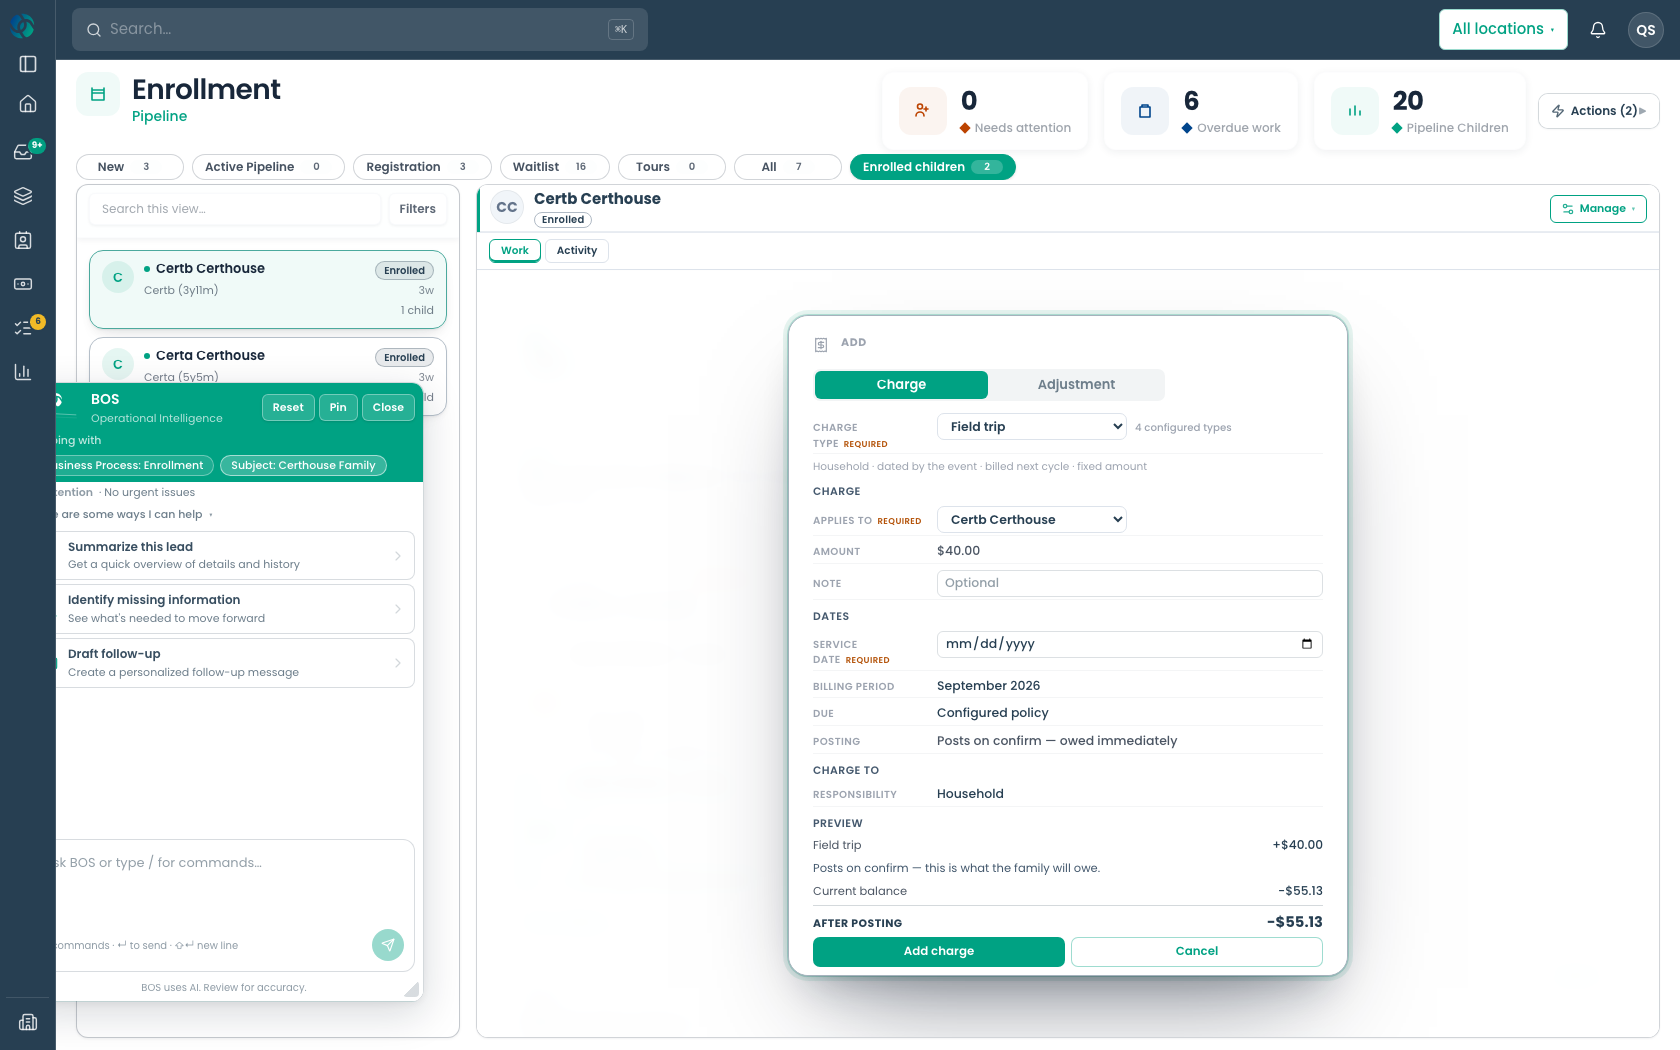
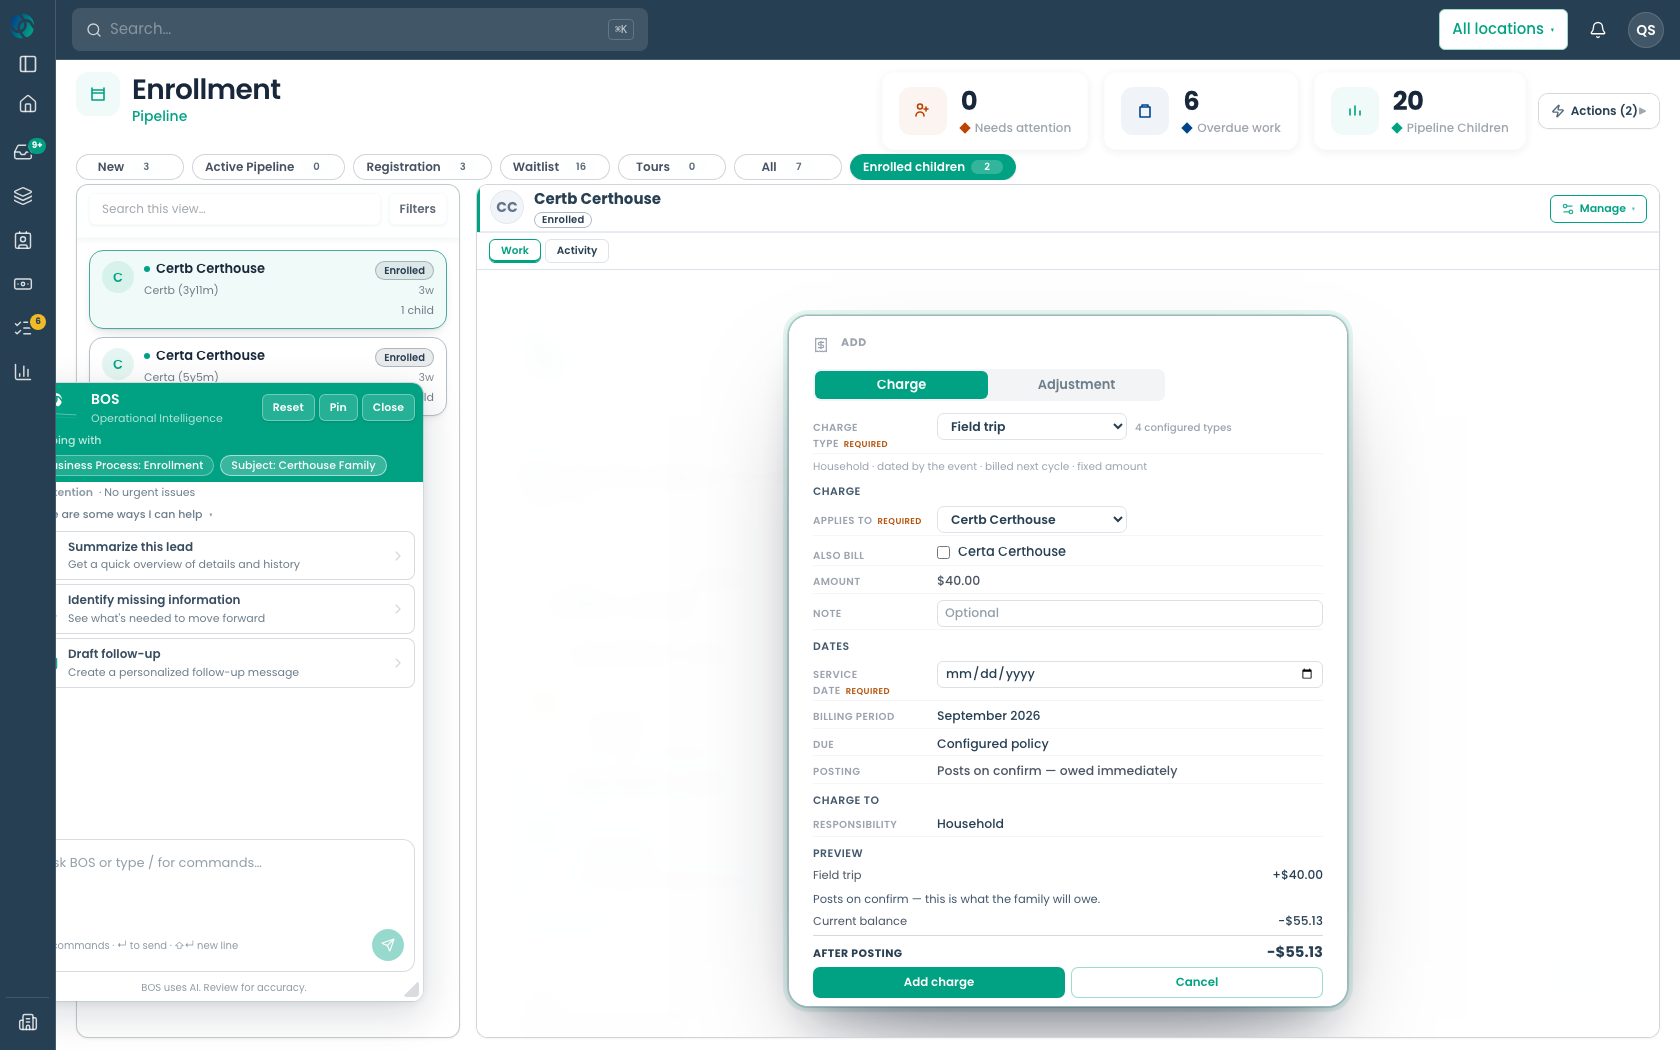
evidence(financials): both fixes proven on the mounted candidate
FIX 1 — the Financial execution policies section renders on
/organization/financials?chapter=policies and offers the full registry
vocabulary: Proration, Billing cadence, Grace period, Late fee, NSF fee,
Deposit, Refund policy, Posting review, Vacation credit and DUE DATE, with a
"Resolved (org default)" readout showing what each currently falls back to.

FIX 2 — ticking a sibling in Add charge renders:

    $40.00 per child · 2 children · each receives their own charge

Which is the economics the objective asked to be impossible to misread.

The broad proof under-reported BOTH, and the verifier exists because of that: it
never ticked a checkbox, so the per-child summary correctly stayed hidden, and it
read options from the commercial form without opening the financial panel's own
control. Asserting around either would have shipped a wrong verdict — in one
direction claiming a defect that was mine, and that is the same mistake as
claiming a pass that was not earned.

Claude-Session: https://claude.ai/code/session_01Pbc33MqqfH1NRnkZn5YyKk

diff --git a/web/playwright/tests/zz-11a-verify-fixes.spec.ts b/web/playwright/tests/zz-11a-verify-fixes.spec.ts
@@ -1,0 +1,73 @@
+/**
+ * DID THE TWO FIXES ACTUALLY LAND ON THE SCREEN?
+ *
+ * The broad proof under-reported both: it never TICKED a child checkbox, so the per-child summary
+ * correctly stayed hidden, and it read policy options from the commercial form without opening the
+ * financial panel's own authoring control. Both are probe limits, and asserting around them would
+ * have shipped two wrong verdicts.
+ */
+import { test } from "@playwright/test";
+
+const STORAGE = "/Users/vacilando/.local/state/alloy-dev/gateway/auth/slot2/storage-state.json";
+const OUT = "../certification/financials/11a-mounted";
+test.use({ storageState: STORAGE, baseURL: process.env.QA_BASE_URL || "http://127.0.0.1:3112", viewport: { width: 1680, height: 1050 } });
+test.setTimeout(400_000);
+const log = (s: string) => console.log(s); // eslint-disable-line no-console
+
+test("FIX 1 · financial execution policies are authorable on /organization/financials", async ({ page }) => {
+    await page.goto("/settings/organization/financials?chapter=policies", { waitUntil: "domcontentloaded" });
+    await page.waitForTimeout(11_000);
+    const section = await page.locator('[data-testid="financial-execution-policies"]').count();
+    log(`${section ? "OK  " : "GAP "} the Financial execution policies section is mounted (${section})`);
+    if (!section) return;
+
+    await page.locator('[data-testid="financial-execution-policies"]').scrollIntoViewIfNeeded();
+    await page.screenshot({ path: `${OUT}/fix1-financial-policies.png`, fullPage: false });
+
+    const sectionText = await page.locator('[data-testid="financial-execution-policies"]').innerText();
+    log(`--- section text ---\n${sectionText.slice(0, 900)}`);
+
+    // Open the panel's OWN create control and read the type vocabulary it offers.
+    const addBtn = page.locator('[data-testid="financial-execution-policies"] button').filter({ hasText: /new|add|create/i }).first();
+    if (await addBtn.count()) {
+        await addBtn.click();
+        await page.waitForTimeout(3000);
+        await page.screenshot({ path: `${OUT}/fix1-financial-policy-form.png` });
+        const opts = await page.locator('[data-testid="financial-execution-policies"] select option').allTextContents();
+        log(`OPTIONS: ${opts.join(" | ").slice(0, 700)}`);
+        for (const t of ["Due date", "Proration", "Posting review", "Deposit", "Billing cadence"]) {
+            log(`${opts.some((o) => o.trim().toLowerCase() === t.toLowerCase()) ? "OK  " : "GAP "} type "${t}" offered`);
+        }
+        for (const s of ["On the invoice date", "Days after the invoice date", "On the first day of the billing period", "Days after the billing period starts"]) {
+            log(`${opts.some((o) => o.trim() === s) ? "OK  " : "... "} due strategy "${s}"`);
+        }
+    } else {
+        log("GAP  the panel exposes no create control");
+    }
+});
+
+test("FIX 2 · ticking a sibling states the per-child economics", async ({ page }) => {
+    await page.goto("/workspace/work-unit/enrolled-children", { waitUntil: "domcontentloaded" });
+    await page.waitForTimeout(13_000);
+    const add = page.getByRole("button", { name: /^Add$/ }).first();
+    if (!(await add.count())) { log("GAP  no Add control"); return; }
+    await add.click();
+    await page.waitForTimeout(4500);
+
+    const boxes = page.locator("[data-addcharge-child]");
+    const n = await boxes.count();
+    log(`${n > 0 ? "OK  " : "GAP "} sibling checkboxes rendered (${n})`);
+    if (!n) return;
+
+    await boxes.first().check();
+    await page.waitForTimeout(1500);
+    await page.screenshot({ path: `${OUT}/fix2-multichild-selected.png` });
+
+    const sum = page.locator("[data-addcharge-childsum]");
+    const has = await sum.count();
+    log(`${has ? "OK  " : "GAP "} per-child summary appears once a sibling is ticked`);
+    if (has) log(`SUMMARY: ${(await sum.first().innerText()).replace(/\n/g, " ")}`);
+
+    const checked = await page.locator("[data-addcharge-child]:checked").count();
+    log(`checked siblings: ${checked}`);
+});
